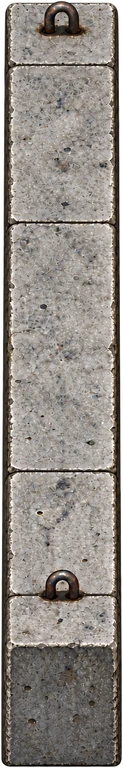
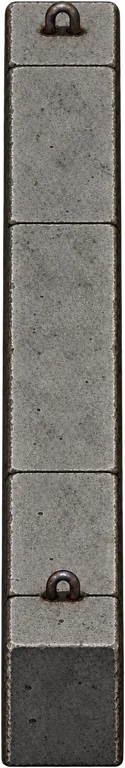
Match vertical concrete wall tone and reduce visual width

diff --git a/index.html b/index.html
@@ -5,7 +5,7 @@
 <meta name="viewport" content="width=device-width, initial-scale=1, maximum-scale=1, user-scalable=no, viewport-fit=cover">
 <meta name="apple-mobile-web-app-capable" content="yes">
 <meta name="mobile-web-app-capable" content="yes">
-<title>戦車ゲーム 2026.10.12.1207</title>
+<title>戦車ゲーム 2026.10.12.1214</title>
 <style>
 :root{box-sizing:border-box;padding-top:env(safe-area-inset-top,0px);padding-bottom:env(safe-area-inset-bottom,0px);--bg:#12140f;--fg:#e6e9d8}
 html{scroll-padding-top:env(safe-area-inset-top,0px)}
@@ -568,7 +568,7 @@ const cv=document.getElementById('c'),gm=gameCanvasContext(cv,{alpha:false}),oc=
 const canvasCreationDiagnostics={requested:MOBILE_READBACK_CANVAS,accepted:null};
 try{const attributes=gm.getContextAttributes?.();if(attributes&&typeof attributes.willReadFrequently==='boolean')canvasCreationDiagnostics.accepted=attributes.willReadFrequently;}catch(_){}
 window.tankCanvasDiagnostics=canvasCreationDiagnostics;
-const GAME_VERSION='2026.10.12.1207',FILE_CREATED_AT='2026/10/12 12:07',DRILL_ACTIVE=5,DRILL_RECHARGE=6,DIG_PREP_DURATION=.5;
+const GAME_VERSION='2026.10.12.1214',FILE_CREATED_AT='2026/10/12 12:14',DRILL_ACTIVE=5,DRILL_RECHARGE=6,DIG_PREP_DURATION=.5;
 // 表示・保存用のm換算。移動・評価は内部座標のまま扱う。
 const distanceMeters=distance=>Math.round(Math.max(0,distance)/10);
 let audioCtx=null;
@@ -695,7 +695,7 @@ const COVER_ASSET_SRC={
  "rock":ASSET_DIR+'cover/rock.webp',
  "rock_v2":ASSET_DIR+'cover/rock_v2.webp',
  "maze_wall":ASSET_DIR+'cover/maze_wall.webp',
- "maze_wall_vertical":ASSET_DIR+'cover/maze_wall_vertical.webp?v=2026.10.12.1207',
+ "maze_wall_vertical":ASSET_DIR+'cover/maze_wall_vertical.webp?v=2026.10.12.1214',
  "barrel":ASSET_DIR+'cover/barrel.webp',
  "command_building_1":ASSET_DIR+'cover/command_building_1.webp',
  "wood_bridge":ASSET_DIR+'terrain/wood_bridge.webp'
@@ -1198,7 +1198,7 @@ function drawCoverAsset(c){
  if(c.kd===1){
   const long=hor?c.w:c.h,short=Math.max(hor?c.h:c.w,14);
   // 縦壁は専用の上面・陰影を描いた画像。横壁画像の90度回転は使わない。
-  if(!hor)return drawAssetSprite(COVER_IMG.maze_wall_vertical,cx,cy,short*1.18,long*1.03,0,.98);
+  if(!hor)return drawAssetSprite(COVER_IMG.maze_wall_vertical,cx,cy,short*1.02,long*1.03,0,.98);
   return drawAssetSprite(COVER_IMG.maze_wall,cx,cy,long*1.03,short*1.18,0,.98);
  }
  if(c.kd===2){
